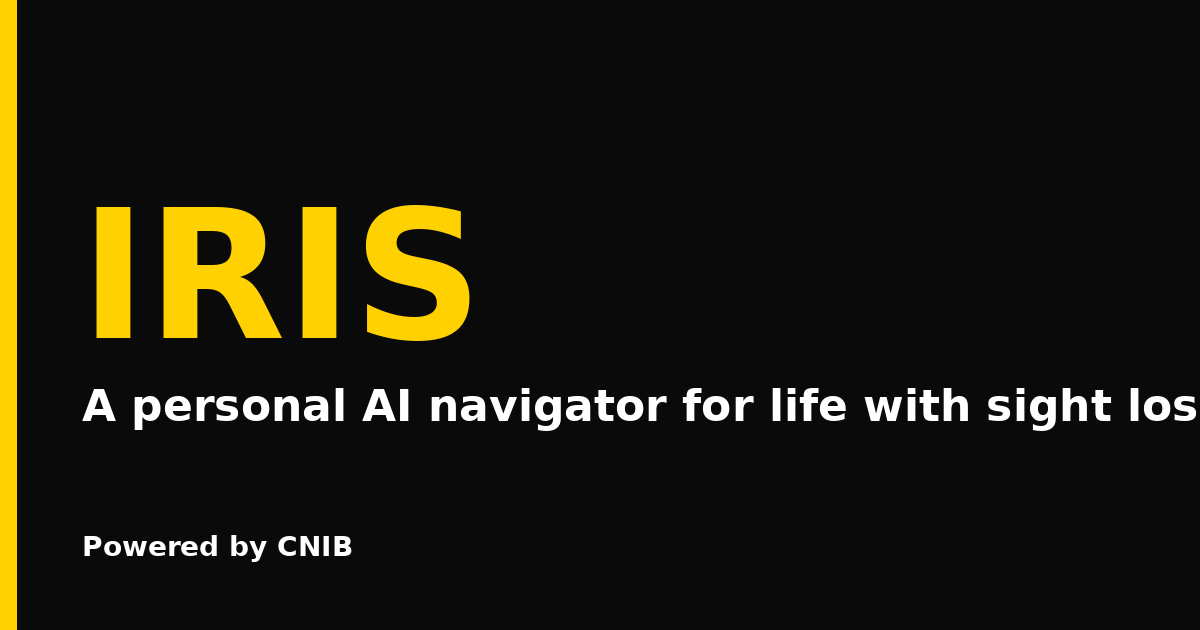
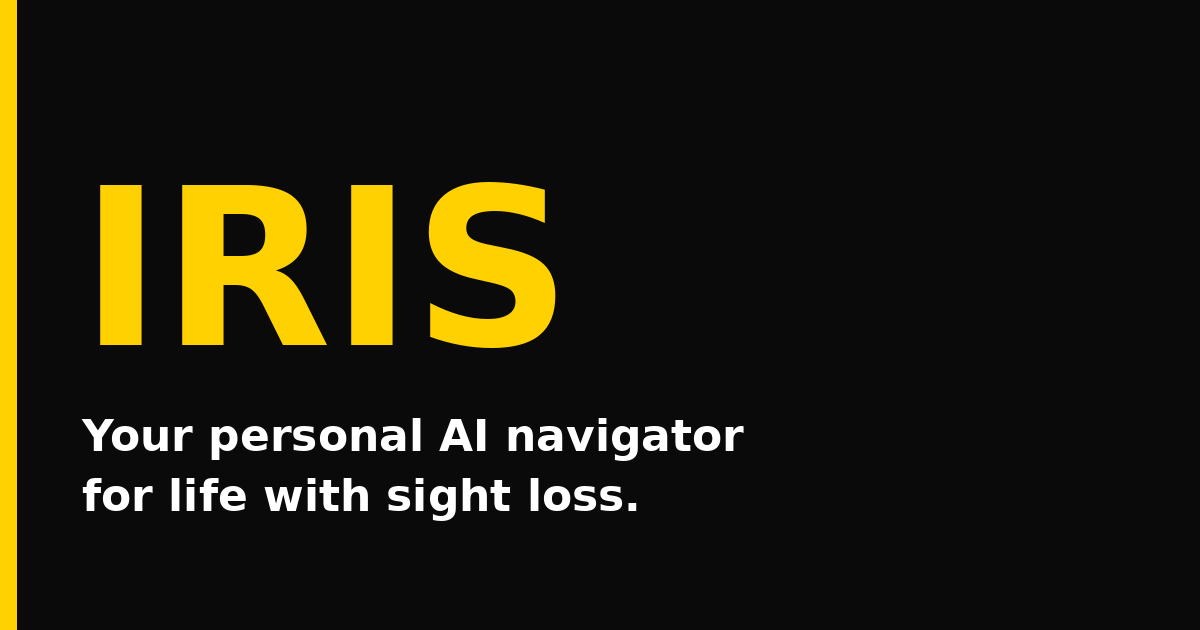
Sharpen hero messaging and remove What is this section
- Nav subheading: 'Your sight loss navigator' -> 'Your personal AI navigator for life with sight loss'
- Title/OG/Twitter: 'A personal' -> 'Your personal'
- OG image regenerated: bigger IRIS wordmark, tagline updated, 'Powered by CNIB' removed
- 'What is this?' builder's note section removed

diff --git a/index.html b/index.html
@@ -3,8 +3,8 @@
 <head>
   <meta charset="UTF-8">
   <meta name="viewport" content="width=device-width, initial-scale=1.0">
-  <title>IRIS — A personal AI navigator for life with sight loss</title>
-  <meta name="description" content="Meet Iris. A personal AI navigator for life with sight loss — built as a working prototype for CNIB.">
+  <title>IRIS — Your personal AI navigator for life with sight loss</title>
+  <meta name="description" content="Meet Iris. Your personal AI navigator for life with sight loss — built as a working prototype for CNIB.">
   <meta name="theme-color" content="#0A0A0A">
   <meta name="author" content="Jacob Charendoff">
 
@@ -15,18 +15,18 @@
   <!-- Open Graph -->
   <meta property="og:type" content="website">
   <meta property="og:site_name" content="IRIS">
-  <meta property="og:title" content="IRIS — A personal AI navigator for life with sight loss">
-  <meta property="og:description" content="Meet Iris. A personal AI navigator for life with sight loss — built as a working prototype for CNIB.">
+  <meta property="og:title" content="IRIS — Your personal AI navigator for life with sight loss">
+  <meta property="og:description" content="Meet Iris. Your personal AI navigator for life with sight loss — built as a working prototype for CNIB.">
   <meta property="og:url" content="https://iris-cnib-pilot.vercel.app/">
   <meta property="og:image" content="https://iris-cnib-pilot.vercel.app/og.png">
   <meta property="og:image:width" content="1200">
   <meta property="og:image:height" content="630">
-  <meta property="og:image:alt" content="IRIS — A personal AI navigator for life with sight loss. Powered by CNIB.">
+  <meta property="og:image:alt" content="IRIS — Your personal AI navigator for life with sight loss.">
 
   <!-- Twitter -->
   <meta name="twitter:card" content="summary_large_image">
-  <meta name="twitter:title" content="IRIS — A personal AI navigator for life with sight loss">
-  <meta name="twitter:description" content="Meet Iris. A personal AI navigator for life with sight loss — built as a working prototype for CNIB.">
+  <meta name="twitter:title" content="IRIS — Your personal AI navigator for life with sight loss">
+  <meta name="twitter:description" content="Meet Iris. Your personal AI navigator for life with sight loss — built as a working prototype for CNIB.">
   <meta name="twitter:image" content="https://iris-cnib-pilot.vercel.app/og.png">
 
   <link rel="preconnect" href="https://fonts.googleapis.com">
@@ -4922,7 +4922,7 @@
     <div class="nav-brand">
       <img src="https://www.cnib.ca/sites/default/files/cnib-logo-2025_maple_leaf.svg" alt="CNIB" onerror="this.outerHTML='<span style=&quot;font-family:Barlow,Helvetica Neue,Arial,sans-serif;font-size:22px;font-weight:700;color:#fff&quot;>CNIB</span>'">
       <span class="nav-wordmark">IRIS</span>
-      <span style="font-size:11px;color:var(--text-dim);font-weight:400;margin-left:4px;letter-spacing:0.3px">Your sight loss navigator</span>
+      <span style="font-size:11px;color:var(--text-dim);font-weight:400;margin-left:4px;letter-spacing:0.3px">Your personal AI navigator for life with sight loss</span>
     </div>
     <div class="nav-links">
       <a href="#problem" data-nav>The gap</a>
@@ -4982,17 +4982,6 @@
   </section>
 
   <div class="section-divider fade-yellow-to-dark" aria-hidden="true"></div>
-
-  <!-- WHAT IS THIS — builder's note -->
-  <section class="section theme-black" id="what-is-this">
-    <div class="container">
-      <div class="section-head reveal" style="max-width:760px;">
-        <span class="label">What is this?</span>
-        <p class="body-lg">Iris is a side project. I built her in seven days after a conversation with CNIB about what member engagement could feel like if it actually listened. She's a prototype. An AI guide that sits with a person for a few minutes, learns what's going on in their life, and points them toward the CNIB programs built for exactly where they are. Nothing more, nothing less. Poke around. Break things. Let me know what you think.</p>
-        <p class="body-sm" style="opacity:0.6;margin-top:20px;">Independent prototype by Jacob Charendoff. Program references drawn from public information on cnib.ca.</p>
-      </div>
-    </div>
-  </section>
 
   <!-- ACT 2 — THE PROBLEM, THROUGH REAL PEOPLE -->
   <section class="section theme-black" id="problem">
